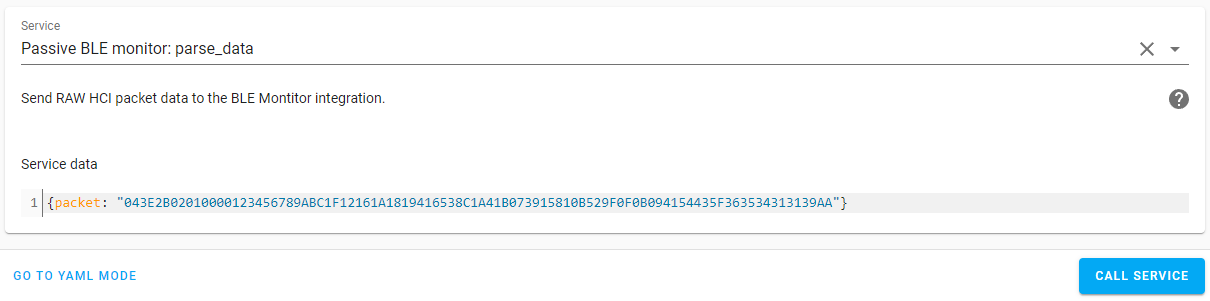
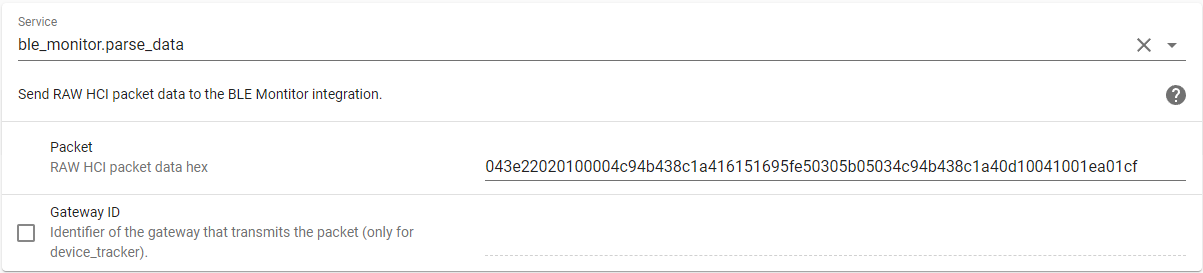
Add option to not use the Bluetooth adapter

diff --git a/custom_components/ble_monitor/__init__.py b/custom_components/ble_monitor/__init__.py
@@ -138,6 +138,15 @@ CONFIG_SCHEMA = vol.Schema(
             vol.Schema(
                 {
                     vol.Optional(
+                        CONF_BT_INTERFACE, default=DEFAULT_BT_INTERFACE
+                    ): vol.Any(vol.All(cv.ensure_list, [cv.matches_regex(MAC_REGEX)]), "disable"),
+                    vol.Optional(
+                        CONF_HCI_INTERFACE, default=[]
+                    ): vol.Any(vol.All(cv.ensure_list, [cv.positive_int]), "disable"),
+                    vol.Optional(
+                        CONF_BT_AUTO_RESTART, default=DEFAULT_BT_AUTO_RESTART
+                    ): cv.boolean,
+                    vol.Optional(
                         CONF_DECIMALS, default=DEFAULT_DECIMALS
                     ): cv.positive_int,
                     vol.Optional(CONF_PERIOD, default=DEFAULT_PERIOD): cv.positive_int,
@@ -150,12 +159,6 @@ CONFIG_SCHEMA = vol.Schema(
                     vol.Optional(
                         CONF_ACTIVE_SCAN, default=DEFAULT_ACTIVE_SCAN
                     ): cv.boolean,
-                    vol.Optional(CONF_HCI_INTERFACE, default=[]): vol.All(
-                        cv.ensure_list, [cv.positive_int]
-                    ),
-                    vol.Optional(
-                        CONF_BT_INTERFACE, default=DEFAULT_BT_INTERFACE
-                    ): vol.All(cv.ensure_list, [cv.matches_regex(MAC_REGEX)]),
                     vol.Optional(
                         CONF_BATT_ENTITIES, default=DEFAULT_BATT_ENTITIES
                     ): cv.boolean,
@@ -169,9 +172,6 @@ CONFIG_SCHEMA = vol.Schema(
                     vol.Optional(
                         CONF_REPORT_UNKNOWN, default=DEFAULT_REPORT_UNKNOWN
                     ): vol.In(REPORT_UNKNOWN_LIST),
-                    vol.Optional(
-                        CONF_BT_AUTO_RESTART, default=DEFAULT_BT_AUTO_RESTART
-                    ): cv.boolean,
                 }
             ),
         )
@@ -285,6 +285,11 @@ async def async_setup_entry(hass: HomeAssistant, config_entry: ConfigEntry):
             ]
             hci_list.append(int(default_hci))
             bt_mac_list.append(str(DEFAULT_BT_INTERFACE))
+        elif config[CONF_BT_INTERFACE] == ["disable"]:
+            _LOGGER.debug("Bluetooth interface is disabled")
+            default_hci = None
+            hci_list = ["disable"]
+            bt_mac_list = ["disable"]
         else:
             bt_interface_list = config[CONF_BT_INTERFACE]
             for bt_mac in bt_interface_list:
@@ -337,7 +342,7 @@ async def async_setup_entry(hass: HomeAssistant, config_entry: ConfigEntry):
         hci_list.append(int(default_hci))
         bt_mac_list.append(str(DEFAULT_BT_INTERFACE))
         _LOGGER.warning(
-            "No configured Bluetooth interfaces was found, using default interface instead"
+            "No configured Bluetooth interface was found, using default interface instead"
         )
 
     config[CONF_HCI_INTERFACE] = hci_list
@@ -353,7 +358,8 @@ async def async_setup_entry(hass: HomeAssistant, config_entry: ConfigEntry):
 
     blemonitor = BLEmonitor(config)
     hass.bus.async_listen(EVENT_HOMEASSISTANT_STOP, blemonitor.shutdown_handler)
-    blemonitor.start()
+    if not config[CONF_BT_INTERFACE] == "disable":
+        blemonitor.start()
 
     hass.data[DOMAIN] = {}
     hass.data[DOMAIN]["blemonitor"] = blemonitor
@@ -569,7 +575,7 @@ class HCIdump(Thread):
             aeskeys=self.aeskeys,
         )
 
-    def process_hci_events(self, data, gateway_id = DOMAIN):
+    def process_hci_events(self, data, gateway_id=DOMAIN):
         """Parse HCI events."""
         self.evt_cnt += 1
         if len(data) < 12:

diff --git a/custom_components/ble_monitor/bt_helpers.py b/custom_components/ble_monitor/bt_helpers.py
@@ -5,6 +5,7 @@ import time
 
 _LOGGER = logging.getLogger(__name__)
 
+
 # Bluetooth interfaces available on the system
 def hci_get_mac(interface_list=[0]):
     """Get dict of available bluetooth interfaces, returns hci and mac."""
@@ -218,11 +219,12 @@ try:
     DEFAULT_BT_INTERFACE = list(BT_INTERFACES.items())[0][1]
     DEFAULT_HCI_INTERFACE = list(BT_INTERFACES.items())[0][0]
 except (IndexError, OSError, subprocess.CalledProcessError):
-    BT_INTERFACES = {0: "00:00:00:00:00:00"}
-    DEFAULT_BT_INTERFACE = "00:00:00:00:00:00"
-    DEFAULT_HCI_INTERFACE = 0
+    BT_INTERFACES = {}
+    DEFAULT_BT_INTERFACE = "disable"
+    DEFAULT_HCI_INTERFACE = "disable"
     _LOGGER.debug(
         "No Bluetooth interface found. Make sure Bluetooth is installed on your system"
     )
 
 BT_MULTI_SELECT = dict([(v, v + ' (hci' + str(k) + ')') for k, v in BT_INTERFACES.items()])
+BT_MULTI_SELECT["disable"] = "Don't use Bluetooth adapter"

diff --git a/custom_components/ble_monitor/config_flow.py b/custom_components/ble_monitor/config_flow.py
@@ -1,7 +1,6 @@
 """Config flow for BLE Monitor."""
 import copy
 import logging
-import re
 import voluptuous as vol
 
 from homeassistant.core import callback
@@ -19,19 +18,15 @@ from homeassistant.const import (
 )
 
 from .helper import (
-    validate_mac,
-    validate_uuid,
-    validate_key,
-
-    identifier_normalize,
     detect_conf_type,
     dict_get_key_or,
     dict_get_or,
+    validate_mac,
+    validate_uuid,
+    validate_key,
 )
 
 from .const import (
-    AES128KEY24_REGEX,
-    AES128KEY32_REGEX,
     CONF_ACTIVE_SCAN,
     CONF_BT_AUTO_RESTART,
     CONF_BT_INTERFACE,
@@ -73,7 +68,6 @@ from .const import (
     DEFAULT_RESTORE_STATE,
     DEFAULT_USE_MEDIAN,
     DOMAIN,
-    MAC_REGEX,
     REPORT_UNKNOWN_LIST,
 )
 

diff --git a/docs/config_params.md b/docs/config_params.md
@@ -14,7 +14,7 @@ nav_order: 3
 ### bt_interface
 
    **MAC address of the Bluetooth interface/adapter**
-   (MAC address or list of multiple MAC addresses)(Optional) This parameter is used to select the Bluetooth-interface of your Home Assistant host. When using YAML, a list of available Bluetooth-interfaces available on your system is given in the Home Assistant log during startup of the Integration, when you enable the Home Assistant [logger at info-level](https://www.home-assistant.io/integrations/logger/). In the UI, both the MAC address and the hci number will be shown. If you don't specify a MAC address, by default the first interface of the list will be used. If you want to use multiple interfaces in YAML, you can use the following configuration:
+   (MAC address or list of multiple MAC addresses or "disable")(Optional) This parameter is used to select the Bluetooth-interface of your Home Assistant host. When using YAML, a list of available Bluetooth-interfaces available on your system is given in the Home Assistant log during startup of the Integration, when you enable the Home Assistant [logger at info-level](https://www.home-assistant.io/integrations/logger/). In the UI, both the MAC address and the hci number will be shown. If you don't specify a MAC address, by default the first interface of the list will be used. If you want to use multiple interfaces in YAML, you can use the following configuration:
 
 ```yaml
 ble_monitor:
@@ -23,18 +23,34 @@ ble_monitor:
     - '34:DE:36:4F:23:2C'
 ```
 
+   If you don't want to use the Bluetooth adapter at all, e.g. when you are using ESPHome [BLE Gateway](https://github.com/myhomeiot/esphome-components#ble-gateway) to forward your BLE advertisements to Home Assistant and you do not want to use the Bluetooth on the Home Assistant machine, you can select "Don't use Bluetooth adapter" in the UI or, when working with YAML, use the following configuration:
+
+
+```yaml
+ble_monitor:
+  bt_interface: "disable"
+```
+
    Default value: First available MAC address
 
 ### hci_interface (YAML only)
 
    **hci number of the Bluetooth interface/adapter**
-   (positive integer or list of positive integers)(Optional) Like the previous option `bt_interface`, this parameter can also be used to select the bt-interface of your Home Assistant host. It is however strongly advised to use the `bt_interface` option and not this `hci_interface` option, as the hci number can change, e.g. when plugging in a dongle. However, due to backwards compatibility, this option is still available. Use 0 for hci0, 1 for hci1 and so on. On most systems, the interface is hci0. In addition, if you need to collect data from several interfaces, you can specify a list of interfaces:
+   (positive integer or list of positive integers or "disable")(Optional) Like the previous option `bt_interface`, this parameter can also be used to select the bt-interface of your Home Assistant host. It is however strongly advised to use the `bt_interface` option and not this `hci_interface` option, as the hci number can change, e.g. when plugging in a dongle. However, due to backwards compatibility, this option is still available. Use 0 for hci0, 1 for hci1 and so on. On most systems, the interface is hci0. In addition, if you need to collect data from several interfaces, you can specify a list of interfaces:
 
 ```yaml
 ble_monitor:
   hci_interface:
     - 0
     - 1
+```
+
+   If you don't want to use the Bluetooth adapter at all, e.g. when you are using ESPHome [BLE Gateway](https://github.com/myhomeiot/esphome-components#ble-gateway) to forward your BLE advertisements to Home Assistant and you do not want to use the Bluetooth on the Home Assistant machine, you can use the following configuration:
+
+
+```yaml
+ble_monitor:
+  hci_interface: "disable"
 ```
 
    Default value: No default value, `bt_interface` is used as default.

diff --git a/docs/faq.md b/docs/faq.md
@@ -378,7 +378,7 @@ If you don't have a device (ceiling light) to pair your remote/dimmer with, you 
 
 ### How can I use my device as a tracker
 
-This integration is also capable of tracking Bluetooth devices, as long as it is using a static MAC address (public or random static (lifetime) address). To track a device, add the [mac](configuration_params#mac) address of the device to track under the [devices](configuration_params#devices) option and enable the option [track_device](configuration_params#track_device). The tracker will listen to every advertisement that is send by the device. As this can be quite often, an [tracker_scan_interval](configuration_params#tracker_scan_interval) can be set to reduce the number of state updates in Home Assistant (default 20 seconds). When no advertisments are received anymore, the device tracker entity state will turn to `Away` after the set [consider_home](configuration_params#consider_home) interval (default 180 seconds).
+This integration is also capable of tracking Bluetooth devices. You can track devices based on its MAC address, as long as it is using a static MAC address (public or random static (lifetime) address), or you can use the UUID. To track a device, add the [mac](configuration_params#mac) address or the [UUID](configuration_params#uuid) of the device to track under the [devices](configuration_params#devices) option and enable the option [track_device](configuration_params#track_device). The tracker will listen to every advertisement that is send by the device. As this can be quite often, an [tracker_scan_interval](configuration_params#tracker_scan_interval) can be set to reduce the number of state updates in Home Assistant (default 20 seconds). When no advertisments are received anymore, the device tracker entity state will turn to `Away` after the set [consider_home](configuration_params#consider_home) interval (default 180 seconds).
 
 
 ### How to remove devices and sensors
@@ -461,10 +461,6 @@ Battery level is not broadcasted by all sensors. Check the list of [supported se
 
 When the reception of data from sensors is stopped for some reason (hardware failure, errors at the system level, and so on), it may take an unacceptably long time before we notice this fact.
 [Here is](https://github.com/custom-components/ble_monitor/issues/65#issuecomment-615911228) a discussion of a solution to solve this problem using a template binary sensor, which can be used in automation to send notifications, for example.
-
-### How can I add a sensor in lovelace that shows the RSSI signal strength?
-
-All devices have a RSSI signal strength sensor that is disabled by default. You can enable the RSSI sensor by going to `configuration`, `integrations`, select `devices` on the BLE monitor integration tile and select your device. Click on the `+1 disabled entity` to show the disabled sensor and select the disabled entity. Finally, click on `Enable entity` to enable it.
 
 ## Debug
 

diff --git a/docs/parse_data.md b/docs/parse_data.md
@@ -13,11 +13,11 @@ nav_order: 5
 
 ### Introduction
 
-BLE monitor has a service to parse BLE advertisements. This service can e.g. be used with ESPHome [BLE Gateway](https://github.com/myhomeiot/esphome-components#ble-gateway) (at the moment requires some manual adjustments to ESPHome).
+BLE monitor has a service to parse BLE advertisements. This service can e.g. be used with ESPHome [BLE Gateway](https://github.com/myhomeiot/esphome-components#ble-gateway).
 
 You can also use this service to create support for you own home-brew sensor, as long as you make sure you follow the format of one of the existing sensors.
 
-In this example you can see the BLE data packet from device with MAC address `BC:9A:78:56:34:12`, in the packet it's in reverse order `123456789ABC`. The BLE packet should be in HCI format, with packet type HCI Event (0x04).
+In this example you can see the BLE data packet from device with MAC address `A4:C1:38:B4:94:4C`, in the packet it's in reverse order `4C94B438C1A4`. The BLE packet should be in HCI format, with packet type HCI Event (0x04). The gateway id is optional and can e.g. be used to identify which ESPHome device did receive the message, which can be usefull for room localization.
 
 ![parse_data_service]({{site.baseurl}}/assets/images/parse_data_service_screen.png)
 
